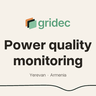
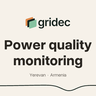
Логотип «solid v3» владельца (gridec_solid_v3_vector_pack.zip) вместо «alpha» (2026-11-17, владелец: «этот вариант поставь»)
Только сплошные заливки, без контуров и прозрачности. На светлом: пластины #E08A4B / #17241F / #86C2A0, слово #17241F. На тёмном: средняя пластина #39765F (3:1 к #17241F — видна, в «alpha» сливалась с фоном), слово #86C2A0.
Рамка SVG 684×192 (была 684×204) при том же рисунке 668×174: шапка 37→35 px, подвал 44→41 px — видимый размер знака прежний. width/height у <img> 684×192.
Заменены: brand/gridec-logo-light(-s).svg, gridec-logo-dark.svg, gridec-mark-light/dark.svg (viewBox знака 176×192), gridec-logo-email-light/dark.png; favicon.svg и фавиконки; og/logo-mark.png и og-карточки. Шапка телефона: зазор знак→«Բաժիններ» 8 px на 375, 23 на 390.

Changed region(s): [[0.25, 0.1562, 0.75, 0.3125], [0.25, 0.25, 0.2812, 0.2812]]

diff --git a/powertech-v2-build/shell.html b/powertech-v2-build/shell.html
@@ -205,7 +205,7 @@ header a,header button,header nav,header .navr{pointer-events:auto;}
    плоскостями шире (3.4 вместо 1.5) и задняя плоскость на шаг темнее, иначе при
    32px зазоры пропадают и знак сливается в пятно. На тёмном — dark-версия.
    Сдвиг −7px: оптическое выравнивание по средней плоскости (задняя висит в поле). */
-.brand .wm{display:block;flex:0 0 auto;height:37px;width:auto;margin:0 0 0 -6px;}/* 2026-11-17 логотип v2 владельца: рамка без полей, край знака там же, где был */   /* 32 → 37: владелец «на 15 %» (2026-09-13); сдвиг оптики −7 → −8 пропорционально */
+.brand .wm{display:block;flex:0 0 auto;height:35px;width:auto;margin:0 0 0 -6px;}/* 2026-11-17 логотип «solid v3» владельца: рамка 684×192 без полей; 35 px = тот же размер рисунка, что был при 37 */   /* 32 → 37: владелец «на 15 %» (2026-09-13); сдвиг оптики −7 → −8 пропорционально */
 .brand .lg-d{display:none;}
 header.on-dark .brand .lg-l{display:none;}
 header.on-dark .brand .lg-d{display:block;}
@@ -1580,7 +1580,7 @@ footer .fgrid{display:grid;grid-template-columns:minmax(220px,1fr) minmax(0,1.15
 /* Владелец (2026-09-14): знак и имя юрлица под ним спорили — два имени одного
    веса подряд. Имя юрлица ушло в строку реквизитов к номеру: знак называет
    компанию один раз, юрлицо читают вместе с номером. */
-footer .fbrand .flg{display:block;height:44px;width:auto;margin:0 0 22px -7px;}
+footer .fbrand .flg{display:block;height:41px;width:auto;margin:0 0 22px -7px;}
 /* Учётный номер компании. Он ярче описания над ним, потому что это
    проверяемый факт, а не подпись: по этому номеру компанию находят в
    государственном реестре — ради чего он в футере и стоит. Обозначение
@@ -2360,7 +2360,7 @@ html[data-nav="5"] #hdr .btn{white-space:nowrap;}
 <div id="wipe"><canvas aria-hidden="true"></canvas></div>
 <div class="rake" aria-hidden="true"></div>
 <header id="hdr" data-tone="paper"><div class="hin">
-  <a class="brand" href="%%BRAND_HREF%%" aria-label="Gridec"><img class="wm lg-l" src="./brand/gridec-logo-light-s.svg" alt="Gridec" width="684" height="204" decoding="async"><img class="wm lg-d" src="./brand/gridec-logo-dark.svg" alt="" width="684" height="204" decoding="async" aria-hidden="true"></a>
+  <a class="brand" href="%%BRAND_HREF%%" aria-label="Gridec"><img class="wm lg-l" src="./brand/gridec-logo-light-s.svg" alt="Gridec" width="684" height="192" decoding="async"><img class="wm lg-d" src="./brand/gridec-logo-dark.svg" alt="" width="684" height="192" decoding="async" aria-hidden="true"></a>
   <!-- %%HOME%% пуст на главной и равен её адресу на остальных страницах: оттуда
        ссылки на разделы ведут на главную, а не в пустоту (2026-11-11). -->
   <nav><a class="lk" href="%%HOME%%#applications">%%NAV_INDUSTRIES%%</a><a class="lk" href="%%HOME%%#services">%%NAV_SERVICES%%</a><a class="lk" href="%%HOME%%#company">%%NAV_COMPANY%%</a><a class="lk" href="%%PARTNERS_HREF%%"%%PARTNERS_CUR%%>%%NAV_PARTNERS%%</a></nav>
@@ -2563,7 +2563,7 @@ html[data-nav="5"] #hdr .btn{white-space:nowrap;}
 <footer>
   <div class="wrap fgrid">
     <div class="fbrand rv">
-      <img class="flg" src="./brand/gridec-logo-dark.svg" alt="Gridec" width="684" height="204" loading="lazy" decoding="async">
+      <img class="flg" src="./brand/gridec-logo-dark.svg" alt="Gridec" width="684" height="192" loading="lazy" decoding="async">
       <p>%%HERO_EYEBROW%%</p>
       <p class="freg">%%CO_LEGAL%%<span class="fsep">·</span>%%CO_TIN_LB%% <b>%%CO_TIN%%</b></p>
     </div>

diff --git a/site/hy/partners/index.html b/site/hy/partners/index.html
@@ -106,7 +106,7 @@ header a,header button,header nav,header .navr{pointer-events:auto;}
   width:100%;padding:0 clamp(14px,2.1vw,30px);}
 .brand{display:flex;align-items:center;gap:10px;
   --acc:var(--c-brand);flex:0 0 auto;transition:color .5s var(--e);}
-.brand .wm{display:block;flex:0 0 auto;height:37px;width:auto;margin:0 0 0 -6px;}   
+.brand .wm{display:block;flex:0 0 auto;height:35px;width:auto;margin:0 0 0 -6px;}   
 .brand .lg-d{display:none;}
 header.on-dark .brand .lg-l{display:none;}
 header.on-dark .brand .lg-d{display:block;}
@@ -812,7 +812,7 @@ footer,.footrev{--foot-h:530px;}
   box-shadow:inset 0 1px 0 var(--line-d);}
 footer .fgrid{display:grid;grid-template-columns:minmax(220px,1fr) minmax(0,1.15fr) minmax(0,.85fr);
   gap:clamp(28px,4vw,var(--s8));align-items:start;}
-footer .fbrand .flg{display:block;height:44px;width:auto;margin:0 0 22px -7px;}
+footer .fbrand .flg{display:block;height:41px;width:auto;margin:0 0 22px -7px;}
 footer .fbrand .freg{margin-top:14px;text-transform:none;letter-spacing:.04em;white-space:nowrap;
   max-width:none;color:var(--c-paper-a72);}
 footer .fbrand .freg .fsep{opacity:.5;margin:0 10px;}
@@ -1292,7 +1292,7 @@ html[data-nav="5"] #hdr .btn{white-space:nowrap;}
 <div id="wipe"><canvas aria-hidden="true"></canvas></div>
 <div class="rake" aria-hidden="true"></div>
 <header id="hdr" data-tone="paper"><div class="hin">
-  <a class="brand" href="/hy/" aria-label="Gridec"><img class="wm lg-l" src="/brand/gridec-logo-light-s.svg" alt="Gridec" width="684" height="204" decoding="async"><img class="wm lg-d" src="/brand/gridec-logo-dark.svg" alt="" width="684" height="204" decoding="async" aria-hidden="true"></a>
+  <a class="brand" href="/hy/" aria-label="Gridec"><img class="wm lg-l" src="/brand/gridec-logo-light-s.svg" alt="Gridec" width="684" height="192" decoding="async"><img class="wm lg-d" src="/brand/gridec-logo-dark.svg" alt="" width="684" height="192" decoding="async" aria-hidden="true"></a>
   
   <nav><a class="lk" href="/hy/#applications">Ոլորտներ</a><a class="lk" href="/hy/#services">Ծառայություններ</a><a class="lk" href="/hy/#company">Ընկերություն</a><a class="lk" href="/hy/partners/" aria-current="page">Գործընկերների համար</a></nav>
   <div class="navr">
@@ -1360,7 +1360,7 @@ html[data-nav="5"] #hdr .btn{white-space:nowrap;}
 <footer>
   <div class="wrap fgrid">
     <div class="fbrand rv">
-      <img class="flg" src="/brand/gridec-logo-dark.svg" alt="Gridec" width="684" height="204" loading="lazy" decoding="async">
+      <img class="flg" src="/brand/gridec-logo-dark.svg" alt="Gridec" width="684" height="192" loading="lazy" decoding="async">
       <p>Էլեկտրաէներգիայի որակի մոնիթորինգ</p>
       <p class="freg">Գրիդեկ ՍՊԸ<span class="fsep">·</span>ՀՎՀՀ <b>08331059</b></p>
     </div>

diff --git a/site/hy/index.html b/site/hy/index.html
@@ -106,7 +106,7 @@ header a,header button,header nav,header .navr{pointer-events:auto;}
   width:100%;padding:0 clamp(14px,2.1vw,30px);}
 .brand{display:flex;align-items:center;gap:10px;
   --acc:var(--c-brand);flex:0 0 auto;transition:color .5s var(--e);}
-.brand .wm{display:block;flex:0 0 auto;height:37px;width:auto;margin:0 0 0 -6px;}   
+.brand .wm{display:block;flex:0 0 auto;height:35px;width:auto;margin:0 0 0 -6px;}   
 .brand .lg-d{display:none;}
 header.on-dark .brand .lg-l{display:none;}
 header.on-dark .brand .lg-d{display:block;}
@@ -812,7 +812,7 @@ footer,.footrev{--foot-h:530px;}
   box-shadow:inset 0 1px 0 var(--line-d);}
 footer .fgrid{display:grid;grid-template-columns:minmax(220px,1fr) minmax(0,1.15fr) minmax(0,.85fr);
   gap:clamp(28px,4vw,var(--s8));align-items:start;}
-footer .fbrand .flg{display:block;height:44px;width:auto;margin:0 0 22px -7px;}
+footer .fbrand .flg{display:block;height:41px;width:auto;margin:0 0 22px -7px;}
 footer .fbrand .freg{margin-top:14px;text-transform:none;letter-spacing:.04em;white-space:nowrap;
   max-width:none;color:var(--c-paper-a72);}
 footer .fbrand .freg .fsep{opacity:.5;margin:0 10px;}
@@ -1292,7 +1292,7 @@ html[data-nav="5"] #hdr .btn{white-space:nowrap;}
 <div id="wipe"><canvas aria-hidden="true"></canvas></div>
 <div class="rake" aria-hidden="true"></div>
 <header id="hdr" data-tone="paper"><div class="hin">
-  <a class="brand" href="#top" aria-label="Gridec"><img class="wm lg-l" src="/brand/gridec-logo-light-s.svg" alt="Gridec" width="684" height="204" decoding="async"><img class="wm lg-d" src="/brand/gridec-logo-dark.svg" alt="" width="684" height="204" decoding="async" aria-hidden="true"></a>
+  <a class="brand" href="#top" aria-label="Gridec"><img class="wm lg-l" src="/brand/gridec-logo-light-s.svg" alt="Gridec" width="684" height="192" decoding="async"><img class="wm lg-d" src="/brand/gridec-logo-dark.svg" alt="" width="684" height="192" decoding="async" aria-hidden="true"></a>
   
   <nav><a class="lk" href="#applications">Ոլորտներ</a><a class="lk" href="#services">Ծառայություններ</a><a class="lk" href="#company">Ընկերություն</a><a class="lk" href="/hy/partners/">Գործընկերների համար</a></nav>
   <div class="navr">
@@ -1455,7 +1455,7 @@ html[data-nav="5"] #hdr .btn{white-space:nowrap;}
 <footer>
   <div class="wrap fgrid">
     <div class="fbrand rv">
-      <img class="flg" src="/brand/gridec-logo-dark.svg" alt="Gridec" width="684" height="204" loading="lazy" decoding="async">
+      <img class="flg" src="/brand/gridec-logo-dark.svg" alt="Gridec" width="684" height="192" loading="lazy" decoding="async">
       <p>Էլեկտրաէներգիայի որակի մոնիթորինգ</p>
       <p class="freg">Գրիդեկ ՍՊԸ<span class="fsep">·</span>ՀՎՀՀ <b>08331059</b></p>
     </div>

diff --git a/site/partners/index.html b/site/partners/index.html
@@ -102,7 +102,7 @@ header a,header button,header nav,header .navr{pointer-events:auto;}
   width:100%;padding:0 clamp(14px,2.1vw,30px);}
 .brand{display:flex;align-items:center;gap:10px;
   --acc:var(--c-brand);flex:0 0 auto;transition:color .5s var(--e);}
-.brand .wm{display:block;flex:0 0 auto;height:37px;width:auto;margin:0 0 0 -6px;}   
+.brand .wm{display:block;flex:0 0 auto;height:35px;width:auto;margin:0 0 0 -6px;}   
 .brand .lg-d{display:none;}
 header.on-dark .brand .lg-l{display:none;}
 header.on-dark .brand .lg-d{display:block;}
@@ -808,7 +808,7 @@ footer,.footrev{--foot-h:530px;}
   box-shadow:inset 0 1px 0 var(--line-d);}
 footer .fgrid{display:grid;grid-template-columns:minmax(220px,1fr) minmax(0,1.15fr) minmax(0,.85fr);
   gap:clamp(28px,4vw,var(--s8));align-items:start;}
-footer .fbrand .flg{display:block;height:44px;width:auto;margin:0 0 22px -7px;}
+footer .fbrand .flg{display:block;height:41px;width:auto;margin:0 0 22px -7px;}
 footer .fbrand .freg{margin-top:14px;text-transform:none;letter-spacing:.04em;white-space:nowrap;
   max-width:none;color:var(--c-paper-a72);}
 footer .fbrand .freg .fsep{opacity:.5;margin:0 10px;}
@@ -1292,7 +1292,7 @@ html[data-nav="5"] #hdr .btn{white-space:nowrap;}
 <div id="wipe"><canvas aria-hidden="true"></canvas></div>
 <div class="rake" aria-hidden="true"></div>
 <header id="hdr" data-tone="paper"><div class="hin">
-  <a class="brand" href="/" aria-label="Gridec"><img class="wm lg-l" src="/brand/gridec-logo-light-s.svg" alt="Gridec" width="684" height="204" decoding="async"><img class="wm lg-d" src="/brand/gridec-logo-dark.svg" alt="" width="684" height="204" decoding="async" aria-hidden="true"></a>
+  <a class="brand" href="/" aria-label="Gridec"><img class="wm lg-l" src="/brand/gridec-logo-light-s.svg" alt="Gridec" width="684" height="192" decoding="async"><img class="wm lg-d" src="/brand/gridec-logo-dark.svg" alt="" width="684" height="192" decoding="async" aria-hidden="true"></a>
   
   <nav><a class="lk" href="/#applications">Industries</a><a class="lk" href="/#services">Services</a><a class="lk" href="/#company">Company</a><a class="lk" href="/partners/" aria-current="page">For Partners</a></nav>
   <div class="navr">
@@ -1360,7 +1360,7 @@ html[data-nav="5"] #hdr .btn{white-space:nowrap;}
 <footer>
   <div class="wrap fgrid">
     <div class="fbrand rv">
-      <img class="flg" src="/brand/gridec-logo-dark.svg" alt="Gridec" width="684" height="204" loading="lazy" decoding="async">
+      <img class="flg" src="/brand/gridec-logo-dark.svg" alt="Gridec" width="684" height="192" loading="lazy" decoding="async">
       <p>POWER QUALITY MONITORING</p>
       <p class="freg">Gridec LLC<span class="fsep">·</span>TIN <b>08331059</b></p>
     </div>

diff --git a/site/index.html b/site/index.html
@@ -102,7 +102,7 @@ header a,header button,header nav,header .navr{pointer-events:auto;}
   width:100%;padding:0 clamp(14px,2.1vw,30px);}
 .brand{display:flex;align-items:center;gap:10px;
   --acc:var(--c-brand);flex:0 0 auto;transition:color .5s var(--e);}
-.brand .wm{display:block;flex:0 0 auto;height:37px;width:auto;margin:0 0 0 -6px;}   
+.brand .wm{display:block;flex:0 0 auto;height:35px;width:auto;margin:0 0 0 -6px;}   
 .brand .lg-d{display:none;}
 header.on-dark .brand .lg-l{display:none;}
 header.on-dark .brand .lg-d{display:block;}
@@ -808,7 +808,7 @@ footer,.footrev{--foot-h:530px;}
   box-shadow:inset 0 1px 0 var(--line-d);}
 footer .fgrid{display:grid;grid-template-columns:minmax(220px,1fr) minmax(0,1.15fr) minmax(0,.85fr);
   gap:clamp(28px,4vw,var(--s8));align-items:start;}
-footer .fbrand .flg{display:block;height:44px;width:auto;margin:0 0 22px -7px;}
+footer .fbrand .flg{display:block;height:41px;width:auto;margin:0 0 22px -7px;}
 footer .fbrand .freg{margin-top:14px;text-transform:none;letter-spacing:.04em;white-space:nowrap;
   max-width:none;color:var(--c-paper-a72);}
 footer .fbrand .freg .fsep{opacity:.5;margin:0 10px;}
@@ -1292,7 +1292,7 @@ html[data-nav="5"] #hdr .btn{white-space:nowrap;}
 <div id="wipe"><canvas aria-hidden="true"></canvas></div>
 <div class="rake" aria-hidden="true"></div>
 <header id="hdr" data-tone="paper"><div class="hin">
-  <a class="brand" href="#top" aria-label="Gridec"><img class="wm lg-l" src="/brand/gridec-logo-light-s.svg" alt="Gridec" width="684" height="204" decoding="async"><img class="wm lg-d" src="/brand/gridec-logo-dark.svg" alt="" width="684" height="204" decoding="async" aria-hidden="true"></a>
+  <a class="brand" href="#top" aria-label="Gridec"><img class="wm lg-l" src="/brand/gridec-logo-light-s.svg" alt="Gridec" width="684" height="192" decoding="async"><img class="wm lg-d" src="/brand/gridec-logo-dark.svg" alt="" width="684" height="192" decoding="async" aria-hidden="true"></a>
   
   <nav><a class="lk" href="#applications">Industries</a><a class="lk" href="#services">Services</a><a class="lk" href="#company">Company</a><a class="lk" href="/partners/">For Partners</a></nav>
   <div class="navr">
@@ -1455,7 +1455,7 @@ html[data-nav="5"] #hdr .btn{white-space:nowrap;}
 <footer>
   <div class="wrap fgrid">
     <div class="fbrand rv">
-      <img class="flg" src="/brand/gridec-logo-dark.svg" alt="Gridec" width="684" height="204" loading="lazy" decoding="async">
+      <img class="flg" src="/brand/gridec-logo-dark.svg" alt="Gridec" width="684" height="192" loading="lazy" decoding="async">
       <p>POWER QUALITY MONITORING</p>
       <p class="freg">Gridec LLC<span class="fsep">·</span>TIN <b>08331059</b></p>
     </div>
